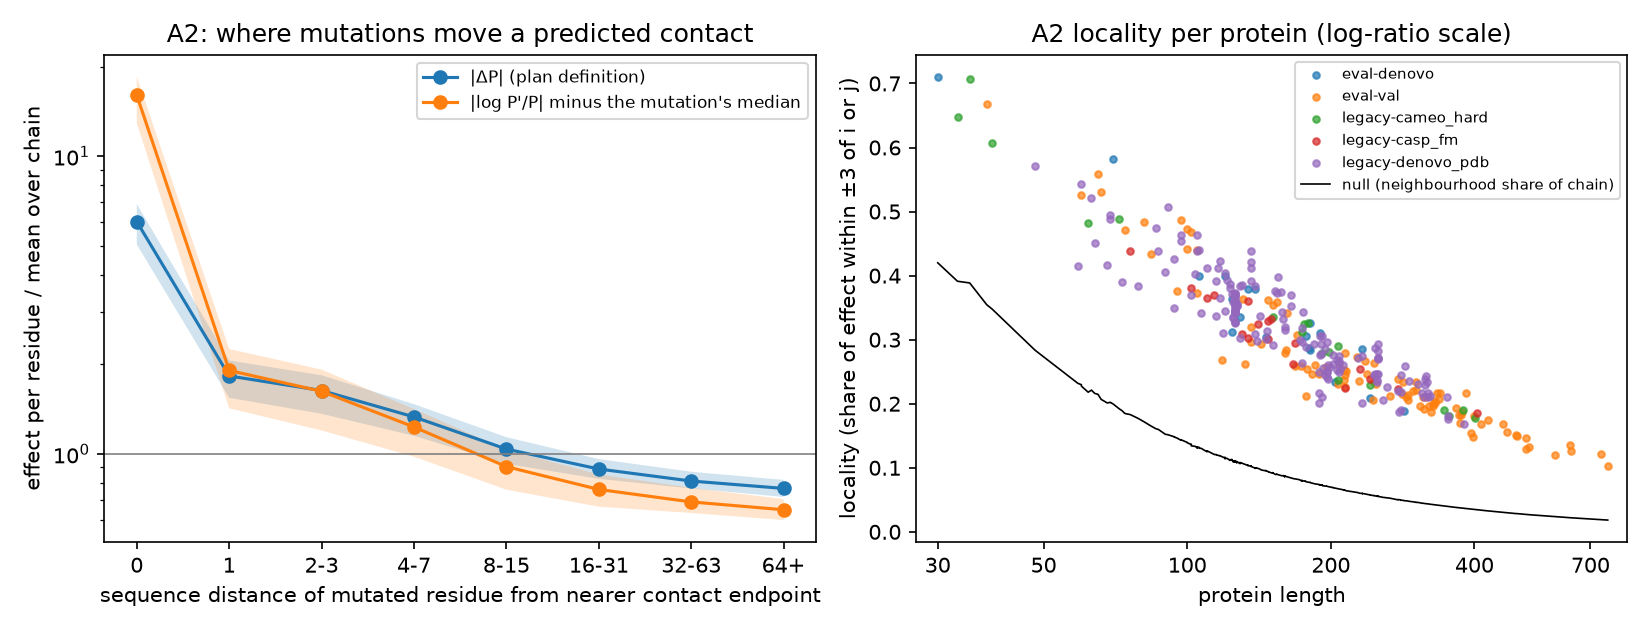
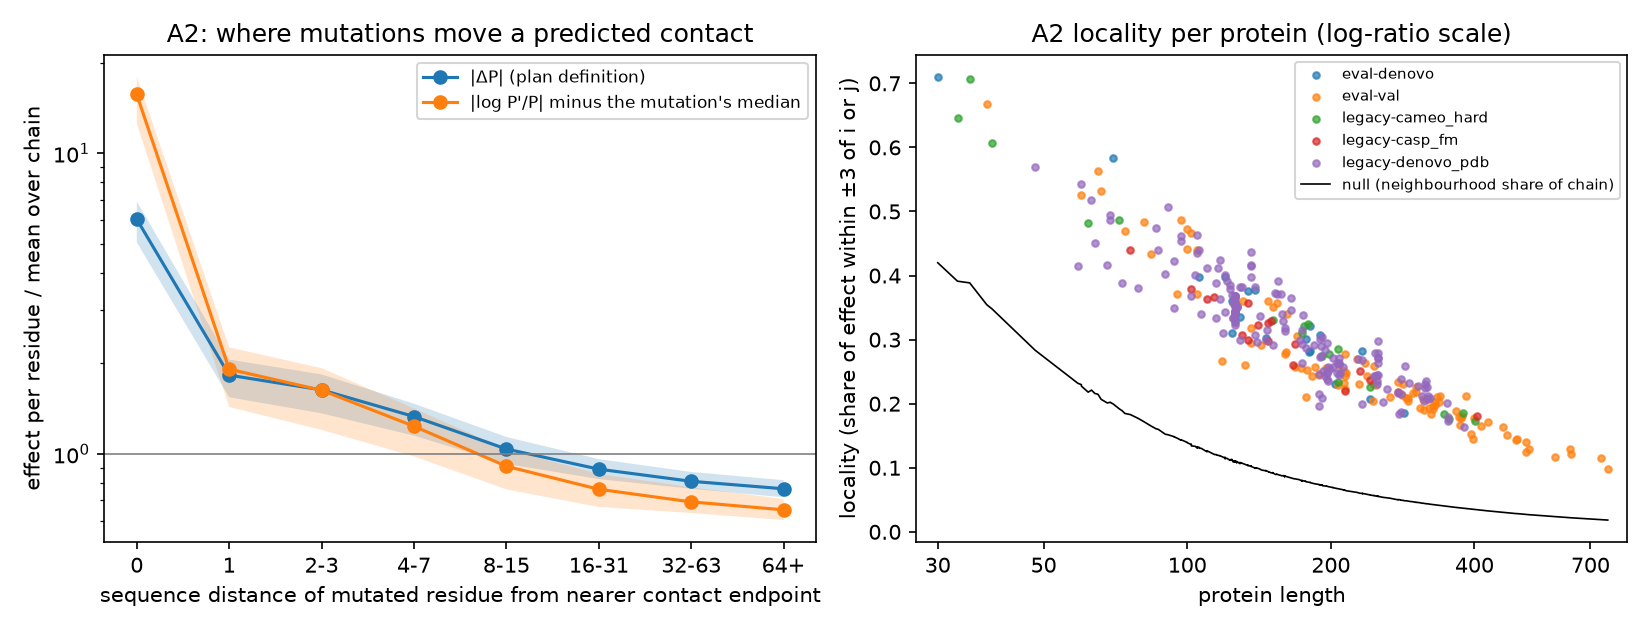
exp341: Track A writeup (A3, A4, A2 on the eval set and the A4 panel), panel DiD plot, A2 locality plot regenerated with the P' floor

diff --git a/experiments/exp341_evals_contacts_v1_interpretability/plot_a2_panel.py b/experiments/exp341_evals_contacts_v1_interpretability/plot_a2_panel.py
@@ -1,0 +1,59 @@
+# Copyright The MarinFold Authors
+# SPDX-License-Identifier: Apache-2.0
+
+"""Plot the A4-panel A2 difference in differences into ``plots/a2_panel_did.png``.
+
+Per relative-count bin and pooled, the DiD (exp199 - exp232 on removed,
+minus the same on kept) with its bootstrap 95% CI, from
+``analyze_a2_panel.py``'s ``data/a2_panel_did.csv``. Left: precision at L.
+Right: locality on the contacts in both models' top L, both effect scales.
+
+    uv run python plot_a2_panel.py
+"""
+
+import sys
+from pathlib import Path
+
+import matplotlib
+
+matplotlib.use("Agg")
+import matplotlib.pyplot as plt
+import numpy as np
+import pandas as pd
+
+HERE = Path(__file__).resolve().parent
+BINS = ["0", "1-3", "4-15", "16-63", "64+", "all"]
+PANELS = {
+    "precision at L": {"precision_at_l": "precision at L"},
+    "locality, contacts in both models' top L": {"locality_shared_raw": "|ΔP|", "locality_shared_log": "log ratio"},
+}
+
+
+def main() -> int:
+    did = pd.read_csv(HERE / "data" / "a2_panel_did.csv", dtype={"bin": str}).set_index(["metric", "bin"])
+    fig, axes = plt.subplots(1, 2, figsize=(10, 3.8))
+    x = np.arange(len(BINS))
+    for ax, (title, metrics) in zip(axes, PANELS.items(), strict=True):
+        offsets = np.linspace(-0.12, 0.12, len(metrics)) if len(metrics) > 1 else [0.0]
+        for offset, (metric, label) in zip(offsets, metrics.items(), strict=True):
+            rows = did.loc[metric].loc[BINS]
+            ax.errorbar(x + offset, rows["did"], yerr=[rows["did"] - rows["did_lo"], rows["did_hi"] - rows["did"]],
+                        fmt="o", capsize=3, label=label)
+        ax.axhline(0, color="grey", linewidth=0.8)
+        ax.axvline(len(BINS) - 1.5, color="grey", linewidth=0.5, linestyle=":")
+        ax.set_xticks(x, BINS)
+        ax.set_xlabel("surviving relatives in exp232's training data")
+        ax.set_ylabel("difference in differences")
+        ax.set_title(title, fontsize=10)
+        if len(metrics) > 1:
+            ax.legend(fontsize=8)
+    fig.suptitle("A2 on the A4 panel: exp199 (trained on removed) vs exp232, 20 matched pairs per bin", fontsize=10)
+    fig.tight_layout()
+    out = HERE / "plots" / "a2_panel_did.png"
+    fig.savefig(out, dpi=150)
+    print(out)
+    return 0
+
+
+if __name__ == "__main__":
+    sys.exit(main())

diff --git a/experiments/exp341_evals_contacts_v1_interpretability/track_a_writeup.md b/experiments/exp341_evals_contacts_v1_interpretability/track_a_writeup.md
@@ -1,0 +1,223 @@
+# exp341 Track A: memorization vs coevolution in contacts-v1
+
+Track A of [#341](https://github.com/Open-Athena/MarinFold/issues/341) asks
+whether the next contacts-v1 model should cap how often each protein family
+is sampled (decision A in [`research_plan.md`](research_plan.md), section 5).
+A cap helps if the model recalls families and individual structures; it
+costs accuracy if the model learns couplings from family statistics.
+
+**Result.** Training on a structure (together with its Foldseek cluster)
+adds 0.04 to 0.085 R-precision in every relative-count bin, including
+structures that keep 64 or more relatives in training. That is a memorized
+component, small next to the 0.56 R-precision exp232 reaches on the same
+structures without seeing them. Two of the plan's routes to a decision did
+not deliver. A3 gives no cap value: its accuracy curve is flat from zero
+relatives, and its control set scores below the structures it was meant to
+bound. A2's locality score cannot separate recall from coupling in this
+model: exposure made each contact depend more on the residues at the
+contact, not less, which is the direction the plan assigned to coupling.
+
+## What ran
+
+| Part | Model | Proteins | Readout | State |
+|---|---|---|---|---|
+| A4 | exp199 vs exp232 | 1,000 removed + 1,000 matched kept | R-precision, 4 seeds | Done |
+| A3 | exp232 | same panel | R-precision, 4 seeds | Done; control failed |
+| A2, eval set | exp277 | 316 (eval-val, eval-denovo, 200 legacy-554) | contact Jacobian, bf16, 1 seed | Done; bf16-limited |
+| A2, A4 panel | exp199 and exp232 | 100 matched pairs, both members <= 250 residues | contact Jacobian, fp32, 1 seed | Done |
+| A1 | | | sequence-section Jacobian | Not run |
+
+Models: `contacts-v1-exp199-cooldown-1.5B` (step 290400) trained on the
+structures #225 later removed; `contacts-v1-exp232-m2-p06-train-1.5B` (step
+363000) never saw them; `contacts-v1-exp277-m2-p06-full-epoch-1.5B` is the
+registry default. All runs used one L40S (g6e.xlarge, us-east-2). The panel
+readouts took 1.39 h per model, A2 on the eval set 18.2 GPU-h, and A2 on the
+panel 20.9 GPU-h.
+
+## The held-out panel
+
+#225 removed 166,679 AFDB structures (4.04% of the corpus) because they
+resembled eval proteins. From 300 of the 2,067 AFDB shards we took 23,745
+removed and 12,000 kept candidates, counted each one's relatives in exp232's
+69.5M training sequences (MMseqs2, identity >= 0.30, coverage >= 0.50), and
+selected 200 removed structures per bin (0, 1-3, 4-15, 16-63, 64+
+relatives), each matched one-to-one to a kept structure from the same bin on
+length, pLDDT and relative count (every standardized mean difference <=
+0.08). Ground truth is each structure's own contacts-v1 document. Matching
+is within bin only: median removed length falls from 540 in bin 0 to 138 in
+64+, and median pLDDT rises from 78.5 to 90.1, so bins are not comparable to
+each other. Details and paths are in [`README.md`](README.md).
+
+## A4: exposure adds accuracy in every bin
+
+Difference in differences: (exp199 − exp232 on removed) − (exp199 − exp232
+on kept). The kept term absorbs how the two models differ overall. CIs
+bootstrap pairs within bin (10,000 resamples).
+
+| Relatives | exp199 − exp232, removed | exp199 − exp232, kept | DiD [95% CI] |
+|---|---|---|---|
+| 0 | 0.075 | 0.021 | 0.053 [0.035, 0.072] |
+| 1-3 | 0.086 | 0.018 | 0.068 [0.047, 0.089] |
+| 4-15 | 0.103 | 0.018 | 0.085 [0.063, 0.109] |
+| 16-63 | 0.101 | 0.037 | 0.064 [0.040, 0.088] |
+| 64+ | 0.061 | 0.021 | 0.040 [0.022, 0.058] |
+
+Surviving relatives do not substitute for exposure: the effect at 64+ is
+smaller but still excludes zero. #225 purged whole clusters, so this
+measures exposure to a structure and its removed relatives, about 16 AFDB
+epochs of them. For scale, exp199's promotion over exp166 was +0.026, and
+#245 could not resolve the same model comparison on eval proteins (+0.024
+[−0.022, +0.073]).
+
+![A3 and A4](plots/panel_a3_a4.png)
+
+## A3: no dose-response, and the control is not a ceiling
+
+exp232 R-precision on removed structures it never saw:
+
+| Relatives | Removed | Matched kept | Removed − kept [95% CI] |
+|---|---|---|---|
+| 0 | 0.561 | 0.422 | 0.139 [0.104, 0.173] |
+| 1-3 | 0.549 | 0.403 | 0.146 [0.108, 0.183] |
+| 4-15 | 0.542 | 0.430 | 0.112 [0.077, 0.147] |
+| 16-63 | 0.575 | 0.446 | 0.129 [0.094, 0.165] |
+| 64+ | 0.664 | 0.632 | 0.032 [−0.002, 0.066] |
+
+Structures with no surviving relatives score as well as those with 16-63.
+The rise at 64+ also appears in the kept controls, where proteins are much
+shorter. A piecewise-linear fit puts the saturation breakpoint at 7
+relatives with a bootstrap CI of 2 to 435, so the curve gives no cap value.
+
+The plan used kept structures as each bin's ceiling, but exp232 scores
+removed structures it never saw 0.11 to 0.15 above kept structures it
+trained on. Two explanations were tested and failed
+([`data/removed_gap_checks.json`](data/removed_gap_checks.json)). Similarity
+to eval proteins goes the wrong way: R-precision falls from 0.609 to 0.541
+between the lowest and highest quartiles of identity to the nearest eval
+reference. Contact density and long-range share account for 0.009 of the
+0.112 mean gap. The gap is unexplained, and until it is, the kept set is not
+a counterfactual for the removed set.
+
+## A2: the contact Jacobian
+
+For every residue k and four substitutions (Ala, Gly, Pro, a charge flip),
+the production pairwise readout is rerun and the change in P(contact) is
+recorded for the protein's top-L predicted contacts (separation >= 6).
+P(contact) is the probability that {i, j} is the next contact statement, so
+it sums to about 1 over pairs; top-L values are around 0.004. Per contact:
+
+- **Locality**: the share of Σ|ΔP| from mutations within ±3 of i or j. The
+  null, |N(i) ∪ N(j)| / L, is the share a mutation effect spread evenly over
+  the chain would give.
+- **Log scale**: the same share computed on |log(P′/P) − m|, where m is the
+  mutation's median log ratio over the top-L contacts. Subtracting m removes
+  the shift every contact takes when renormalization moves probability
+  elsewhere. P′ is floored at 1e-5: knockouts at a contact's own residues
+  overshoot to P′ as low as −1.1e-5 in fp32, and without a floor those
+  strongest effects became NaN and were dropped.
+- **Structural share**: the share from true-contact partners of i or j
+  outside the ±3 window.
+
+### Eval set (exp277, bf16)
+
+Across 316 proteins, locality is 0.193 [0.185, 0.202] against a null of
+0.091 (log scale 0.302 [0.291, 0.314]). Per residue, a mutation at i or j
+itself moves the contact 6.0 times as much as the chain average (15.7 times
+on the log scale), the ±1 neighbours 1.8 times, and residues 64 or more
+away 0.77 times. The structural share, 0.028, barely exceeds its null of
+0.023: mutating a residue that touches i or j in the structure moves the
+contact little more than mutating any other residue. Correct and incorrect
+predicted contacts have the same locality (difference 0.002 [0.000,
+0.004]). The 37 novel-fold proteins with no training homolog sit at 0.189,
+the same as the rest.
+
+These numbers are lower bounds. On 9 proteins of length 70 to 130 rerun in
+fp32, locality averaged 0.374 against 0.278 in bf16. Far from the contact,
+the bf16-minus-fp32 difference in ΔP has a median 0.6 to 5.2 times the
+median fp32 ΔP itself, depending on the protein. Because that error varies
+by protein, the covariate regression on this run is not interpretable: any
+coefficient, including length (−0.90 on logit locality), can absorb it, and
+the precision coefficient flips sign between scales (−0.049 raw, +0.317
+log). An fp32
+rerun of the 316 proteins would cost about 33 L40S-h; it has not been run.
+
+![A2 locality](plots/a2_locality.png)
+
+### A4 panel (exp199 vs exp232, fp32)
+
+The plan's test for recall: if exp199's advantage on the structures it
+trained on comes with a less local Jacobian than exp232's, while the kept
+controls show no difference, the advantage is recall. The subset is 20
+matched pairs per bin with both members at most 250 residues (bin 0 has
+exactly 20 such pairs, well below its median length of 546), run in fp32.
+
+| Metric | exp199 − exp232, removed | exp199 − exp232, kept | DiD [95% CI] |
+|---|---|---|---|
+| Precision at L | 0.080 | 0.005 | 0.075 [0.047, 0.102] |
+| Locality, raw | 0.016 | 0.001 | 0.015 [0.005, 0.024] |
+| Locality, log | 0.025 | −0.003 | 0.028 [0.014, 0.044] |
+| Locality on shared contacts, raw | 0.020 | 0.001 | 0.018 [0.008, 0.029] |
+| Locality on shared contacts, log | 0.031 | −0.003 | 0.034 [0.017, 0.051] |
+| Structural share, raw | 0.002 | −0.001 | 0.003 [0.001, 0.004] |
+
+Exposure raised precision at L, reproducing A4 on this subset, and raised
+locality instead of lowering it. "Shared contacts" restricts both models to
+contacts in both of their top-L sets, so the increase is a change in how exp199 computes the same contacts,
+not in which contacts it predicts. Per bin, every locality DiD is positive;
+with 20 pairs, only bin 0 excludes zero on its own. In fp32 the structural
+share is 1.4 to 1.9 times its null (0.031 to 0.036 against 0.019 to 0.023),
+and exposure moves it by 0.003.
+
+Locality and precision move together. In a check outside the committed
+outputs, their Spearman correlation across the 400 structure-model rows is
+0.53 (log scale), and the 23 pairs whose precision DiD is under 0.02 in magnitude have a
+locality DiD of 0.001. The data do not say whether exposure sharpens
+locality directly or whether locality follows from a more confident
+prediction.
+
+![A2 panel DiD](plots/a2_panel_did.png)
+
+## What this means for decision A
+
+The plan read high locality as coevolution-like coupling and dependence
+spread over the chain as recall. In exp199, training on a structure moved
+dependence toward the contact's own residues. One reading that fits, not
+tested here, is memorization of local sequence at both endpoints (the
+motif-pair hypothesis in Zhang et al. 2024): a ±3 window cannot tell that
+apart from coupling. Either way, a high locality on the eval set does not
+show the model avoids recall, and the locality-at-matched-MSA-depth test in
+section 5.2 cannot decide A.
+
+That leaves A4 as the evidence. exp199 carries a memorized component worth
+0.04 to 0.085 R-precision on structures it trained on for about 16 epochs,
+present at every relative count. A per-cluster cap would remove some of
+that; the panel does not say what the cap should be or what it would cost
+on unseen proteins, because A3 has no working control and its curve is flat.
+A cap ablation in training, or an A3 control matched on whatever makes
+removed structures easier, would supply the number.
+
+## Limits
+
+- The eval-set A2 run and the panel A2 run use different models (exp277 vs
+  exp199/exp232) and precisions (bf16 vs fp32). Their absolute localities
+  are not comparable.
+- A2 used one seed per protein; the R-precision readouts used four.
+- The panel A2 subset is the short tail of each bin, and its precision is
+  precision at L, not R-precision.
+- exp199 and exp232 differ in training length and schedule as well as
+  corpus; the kept-set term removes overall differences, not interactions
+  between schedule and protein type.
+- Not run: A1 (needs a gradient path through the readout), the A4
+  document-level "seen vs fresh offset" variant, harness checks 3 and 4, and
+  the fp32 rerun of the eval-set A2.
+
+## Files
+
+| Data | Script |
+|---|---|
+| [`data/contamination_did.csv`](data/contamination_did.csv), [`data/relative_dose_response.csv`](data/relative_dose_response.csv), [`data/relative_dose_fit.json`](data/relative_dose_fit.json), [`data/panel_scores/`](data/panel_scores/) | [`analyze_panel.py`](analyze_panel.py), [`plot_panel.py`](plot_panel.py) |
+| [`data/a2_per_protein.csv`](data/a2_per_protein.csv), [`data/a2_distance_profile.csv`](data/a2_distance_profile.csv), [`data/a2_summary.json`](data/a2_summary.json), [`data/a2_precision_check.json`](data/a2_precision_check.json), [`data/a2_timings.csv`](data/a2_timings.csv) | [`a2_contact_jacobian.py`](a2_contact_jacobian.py), [`analyze_a2.py`](analyze_a2.py), [`plot_a2.py`](plot_a2.py) |
+| [`data/a2_panel_proteins.csv`](data/a2_panel_proteins.csv), [`data/a2_panel_per_structure.csv`](data/a2_panel_per_structure.csv), [`data/a2_panel_did.csv`](data/a2_panel_did.csv) | [`a2_panel_select.py`](a2_panel_select.py), [`analyze_a2_panel.py`](analyze_a2_panel.py), [`plot_a2_panel.py`](plot_a2_panel.py) |
+
+Raw outputs: `s3://marinfold-exp91-usw2/exp341/` (`panel/`, `a2/`,
+`relatives/`).
